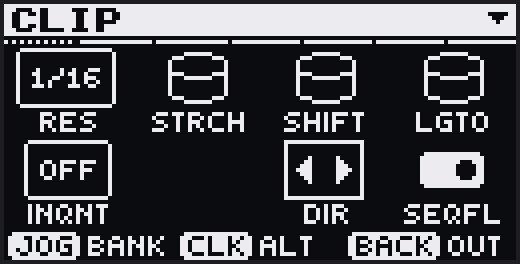
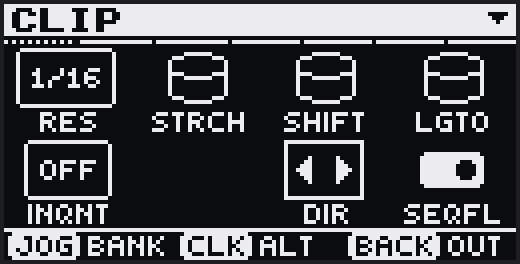
davebox ui: add the footer rule, and stop drawing valued params as buttons
Two follow-ups from Josh.

1. THE FOOTER RULE

A 1px hairline at MV_RULE_Y (56), drawn with the hint row and suppressed with it
under a picker overlay.

⚠⚠ THE BRIEF SAID UPSTREAM SHIPS ONE AND OUR ADOPTION DROPPED IT. It does not,
and we did not. Upstream HAD this rule and DELETED it — SCH-50 `no-rule`, "THE
RULE IS GONE" — and its RULE_Y survives only as the top of the band the footer
owns, not as a row anything draws. Our footer matched upstream exactly.

⭑ ASKING FOR IT HERE IS STILL RIGHT, because upstream's reasoning does not
transfer. It rests on THREE clear rows between the last label band and the
pills. davebox's map is tighter: the label band's own bottom row plus row 56 is
TWO, and the first disappears the moment a knob is touched, because the inverted
strip fills the whole band. At a touch there is exactly ONE row between a solid
white label strip and a row of solid white pills, and without a rule they read
as one block. Recorded in the code and in UI_LANGUAGE §3.3.2 so the next reader
does not "restore" it to match upstream by deleting it.

⚠ Row 56 is the ONLY row available: 49-55 is the label band (filled edge to edge
when touched) and 57-63 is the pill band, whose fill starts on its first row.

⚠⚠ THE LATCH FRAME'S BOTTOM EDGE LANDS ON THE SAME ROW, which is the collision
the brief asked me to check. drawKitLatchBox's dashed phase now KNOCKS ITS GAPS
OUT instead of merely skipping them: a dashed edge that only ADDS ink leaves the
[…]

Changed region(s): [[0.0, 0.8485, 1.0, 0.8788]]

diff --git a/docs/UI_LANGUAGE.md b/docs/UI_LANGUAGE.md
@@ -152,7 +152,7 @@ lbl0 26-32  labels row 0                       MV_LBL0_Y = 26, MV_LBL_H = 7
 gap  33
 w1   34-48  widgets row 1                      MV_ROW1_Y = 34
 lbl1 49-55  labels row 1                       MV_LBL1_Y = 49
-clear 56
+rule  56    footer separator                   MV_RULE_Y = 56
 ftr  57-63  hint pills                         MV_FOOTER_Y = 57, MV_FOOTER_H = 7
 ```
 
@@ -179,7 +179,8 @@ no room for one: its bottom label strip ran to row 63. There is one vertical map
   longer does. The overlays it positions are modals whose row capacity is tuned against that box,
   and moving them changes how many options fit — a separate decision from making room for a footer.
 - ⚠ **The latch frame ends at `MV_FOOTER_Y - 1`,** not at the panel edge. It encloses the *params*,
-  which is what it is a frame around; drawn through the pills it reads as corruption.
+  which is what it is a frame around; drawn through the pills it reads as corruption. That row is
+  `MV_RULE_Y`, so the frame's bottom edge and the rule **share it** — see §3.3.2.
 
 - `MV_CELL_W = 32` → 4 × 32 = 128, **no horizontal gutter**. Columns butt together.
 - Widget box `MV_KW = 20` × `MV_KH = 16`, centred in the cell.
@@ -210,7 +211,7 @@ Descriptor kinds, and what each draws (`drawCellWidget` dispatch):
 | `dirsq` | Direction arrows | Playback direction |
 | `wavesq` | One-cycle waveform box | Wave-select cells |
 | `xbox` | Framed diagonal cross | "Nothing routed here" |
-| `action` | A raised **button** that presses and throws a burst (§3.7) | Triggers |
+| `action` | A raised **button** that presses and throws a burst (§3.7) | **True fire-actions only** — see §3.7 |
 | `faderail` | Alias of `vbar` | Renderer-only, so the two can be drawn side by side. No cell emits it |
 
 Spans override cells where a shape carries more meaning than eight separate knobs. All four are
@@ -323,6 +324,32 @@ length** decide what survives, and both belong to the caller.
   stand-down, so the two cannot drift.
 - See §3.8 for the pill's own drawing rules and the BACK-reservation mechanism.
 
+### 3.3.2 The footer rule
+
+A 1px hairline across all 128 columns at `MV_RULE_Y` (56), drawn with the hint row and suppressed
+with it under a picker overlay.
+
+⚠⚠ **THIS IS A DAVEBOX DECISION, NOT A PORT, AND THE PORT WENT THE OTHER WAY.** Upstream *had* this
+rule and **deleted** it (SCH-50 `no-rule`: *"THE RULE IS GONE"*); its `RULE_Y` survives only as the
+top of the band the footer owns, not as a row anything draws. Our footer adoption matched upstream
+exactly — the rule was never dropped, it was never there.
+
+⭑ **Upstream's argument does not transfer, which is why asking for it here is right.** It rests on
+*three* clear rows between the last label band and the pills. davebox's map is tighter: the label
+band's own bottom row (55) plus row 56 is **two**, and the first of those disappears the moment a
+knob is touched, because the inverted strip fills the whole band. At a touch there is exactly **one**
+row between a solid white label strip and a row of solid white pills, and without a rule those read
+as one block.
+
+- ⚠ **Row 56 is the only row available.** 49–55 belongs to the label band (and is filled edge to
+  edge when touched); 57–63 is the pill band, whose fill starts on its first row.
+- ⚠⚠ **The latch frame's bottom edge lands on the same row**, so `drawKitLatchBox`'s dashed phase
+  **knocks its gaps out** (writes 0) rather than merely skipping them. A dashed edge that only
+  *adds* ink leaves the rule showing through every gap: the bottom edge reads solid in both phases
+  and the latch's solid↔segmented animation dies on that edge with nothing to say so. Knocking out
+  is also the file's existing idiom for a mark on filled ground, and it makes the frame correct over
+  any ground rather than only over black.
+
 ### 3.4 The arc knob
 
 `r = 8`, centred in the 20×16 widget box. Ported from param-pages' `drawArcKnob`.
@@ -431,6 +458,24 @@ A raised physical button: cap, sides, base arc. **Idle** is an outline, **select
 
 - ⭑ The affordance has to be ON the control — a trigger has no value to read, so nothing else on
   the cell says it is pressable.
+- ⚠⚠ **A BUTTON IS FOR FIRE-ACTIONS ONLY, and `scope: 'action'` is not that test.** Three params
+  carry that scope and exactly one is a trigger:
+
+  | param | what its cell holds | widget |
+  |---|---|---|
+  | **Lgto** | nothing — `fmtLgto()` returns `->` unconditionally, one-shot, `oneWay` | **button** |
+  | **Strch** | the last turn DIRECTION (−1 / 0 / +1, reset to 0 at rest), read `/2` · `1x` · `x2` | `valsq` |
+  | **Shift** (Nudge in alt) | an accumulating signed counter (`+= dir`), read `+0` · `-3` | `valsq` |
+
+  The last two are signed **values**, and a pushbutton is the wrong picture for them (Josh: *"stretch
+  and shift don't make sense as trigger button widgets bc they're bipolar"*). A button says "press me
+  and something happens"; these say "here is where you have got to".
+- ⚠ **They are bipolar but NOT `arcbip`.** An arc needs a **range** to point along, and these declare
+  `min = max = 0` — the value is a running total the DSP owns, not a position on a scale. There is
+  nothing to normalise against, so an arc would be inventing bounds. The signed big number shows the
+  number and claims nothing about limits, which is what is true.
+- The value is now **persistent**, where the old `< >` square revealed it only while the knob was
+  held. That was the point of the old widget and it is what made these read as buttons.
 - ⚠⚠ **The flash is display only.** `buttonPhase(fired, now, held)` is pure and resolves the state
   from timestamps the caller already has. Nothing here fires anything, and **no knob-turn trigger
   path was added**; what makes the flash happen is the existing click, unchanged.
